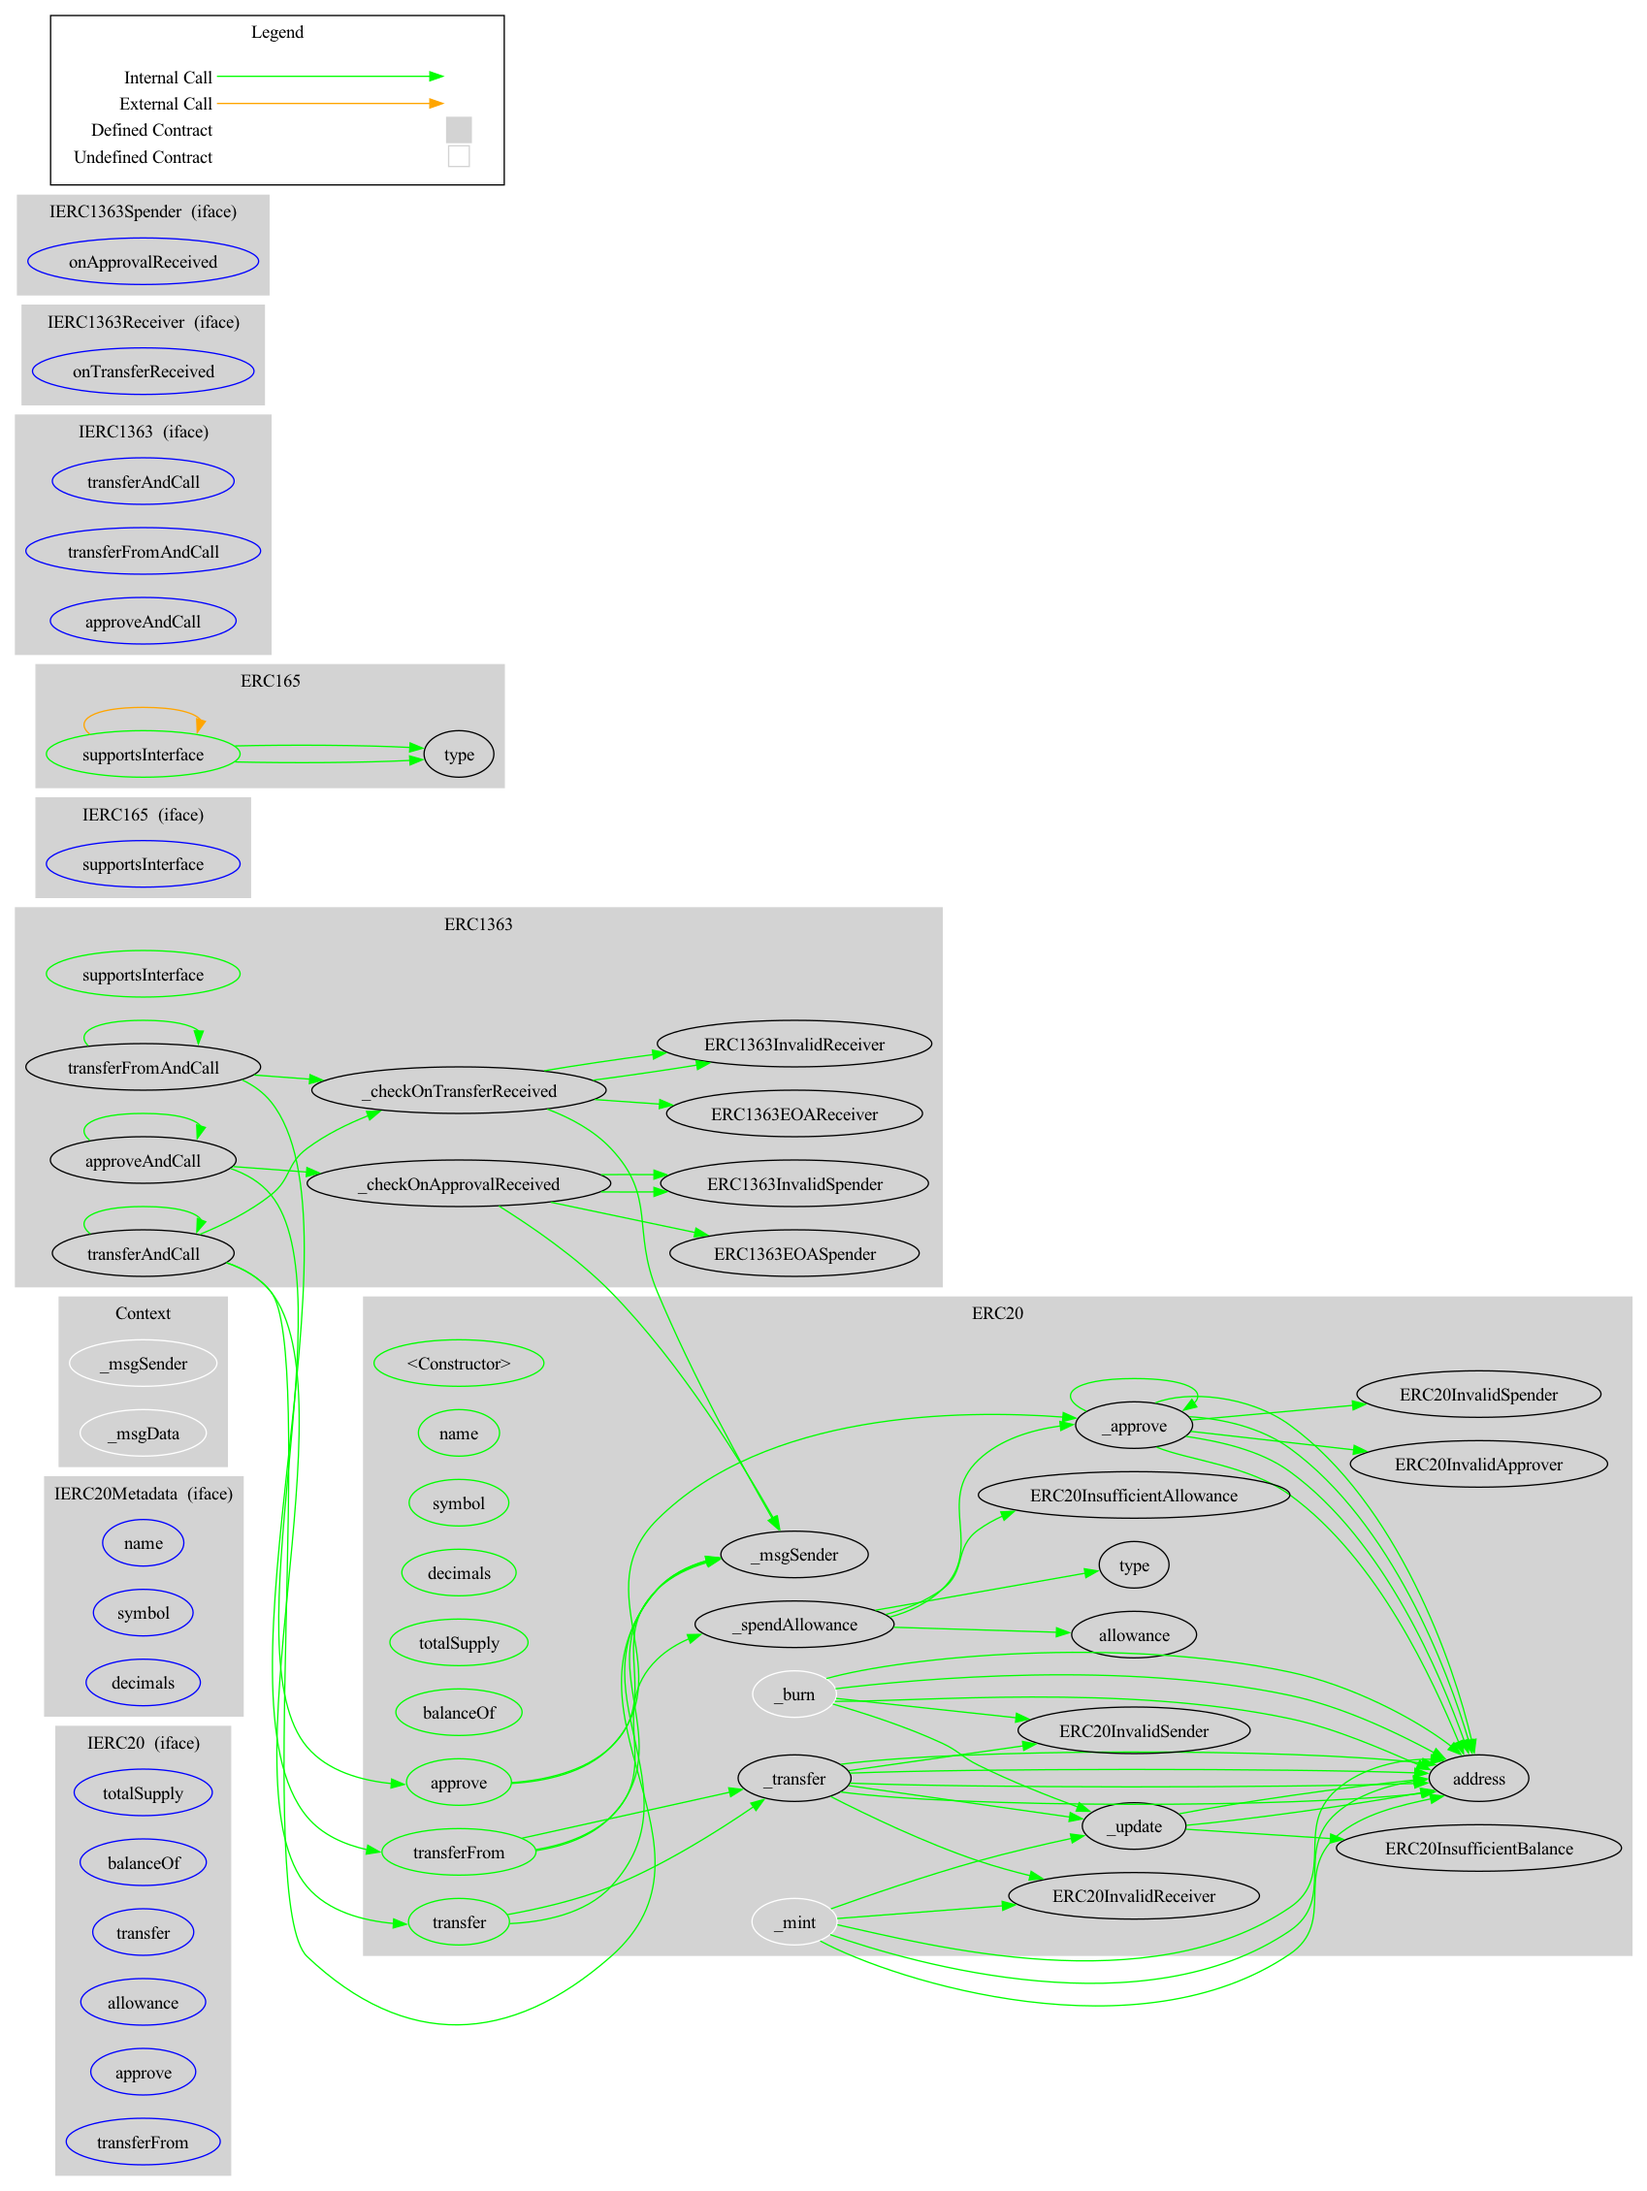
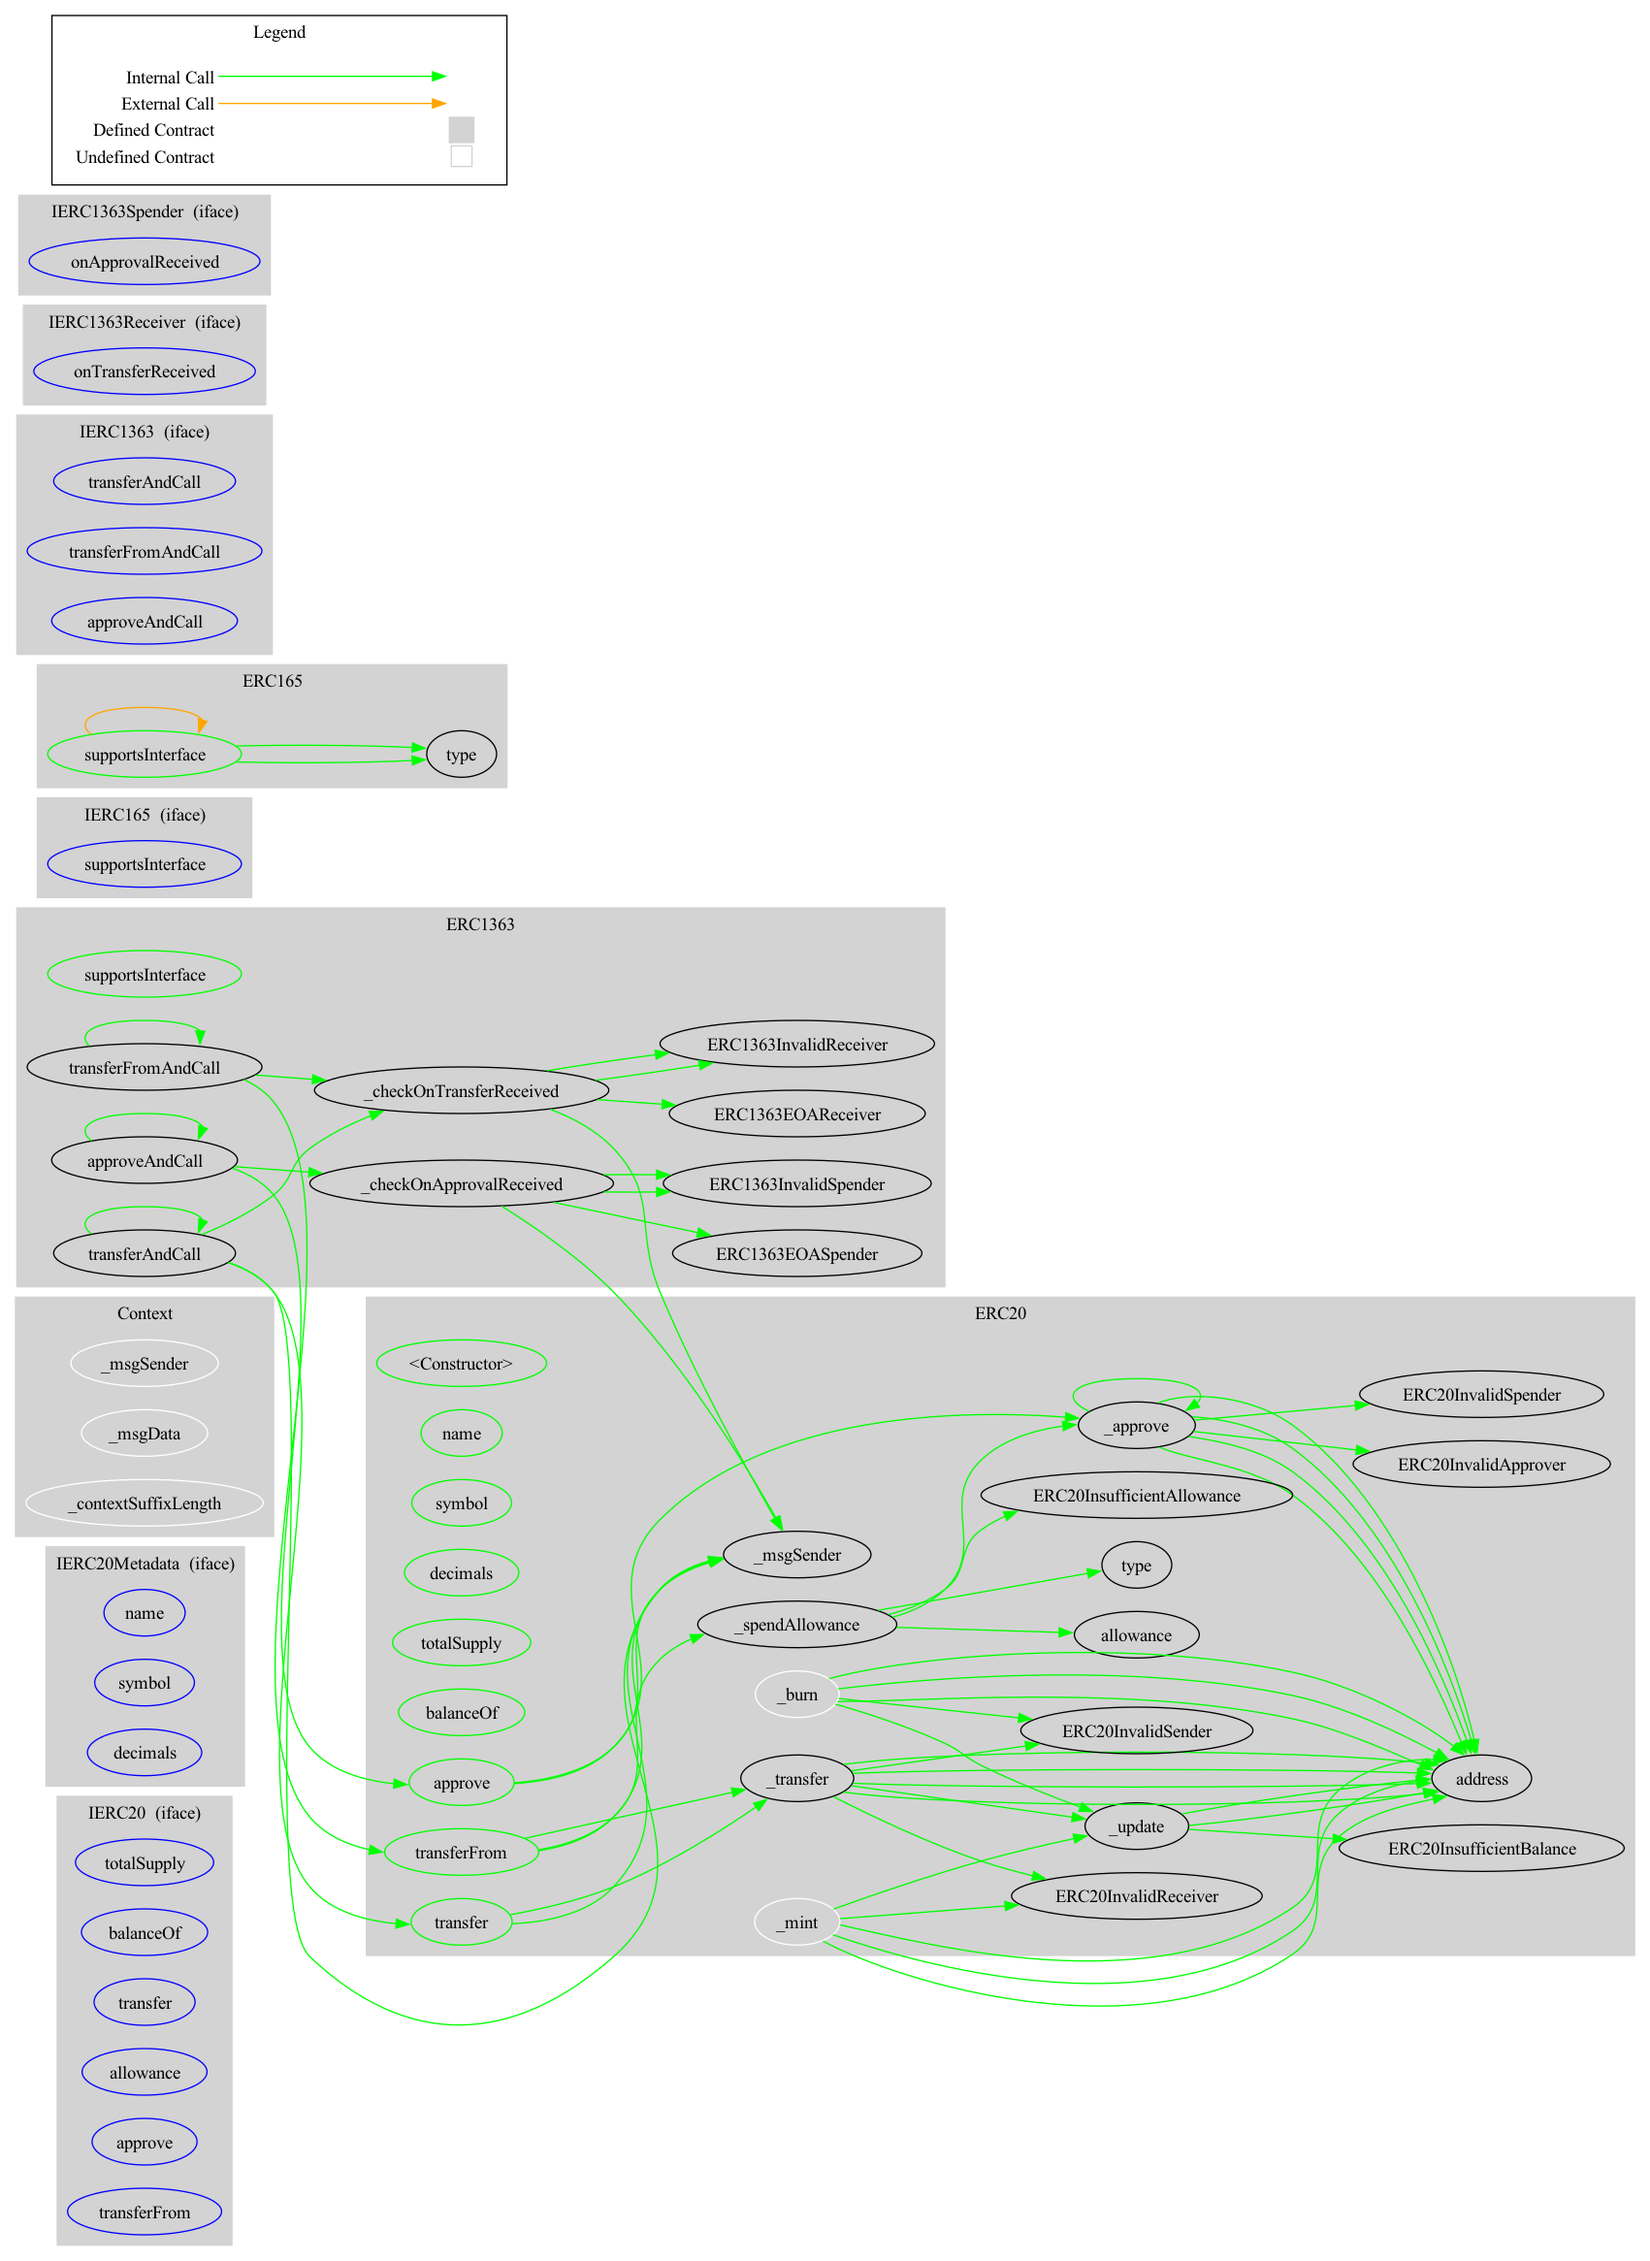
chore: update dependencies

Changed region(s): [[0.0, 0.0, 0.9988, 0.9916], [0.2809, 0.062, 0.3121, 0.093]]

diff --git a/analysis/description-table/ERC1363.md b/analysis/description-table/ERC1363.md
@@ -37,6 +37,7 @@
 | **Context** | Implementation |  |||
 | └ | _msgSender | Internal 🔒 |   | |
 | └ | _msgData | Internal 🔒 |   | |
+| └ | _contextSuffixLength | Internal 🔒 |   | |
 ||||||
 | **ERC20** | Implementation | Context, IERC20, IERC20Metadata, IERC20Errors |||
 | └ | <Constructor> | Public ❗ | 🛑  |NO❗ |
